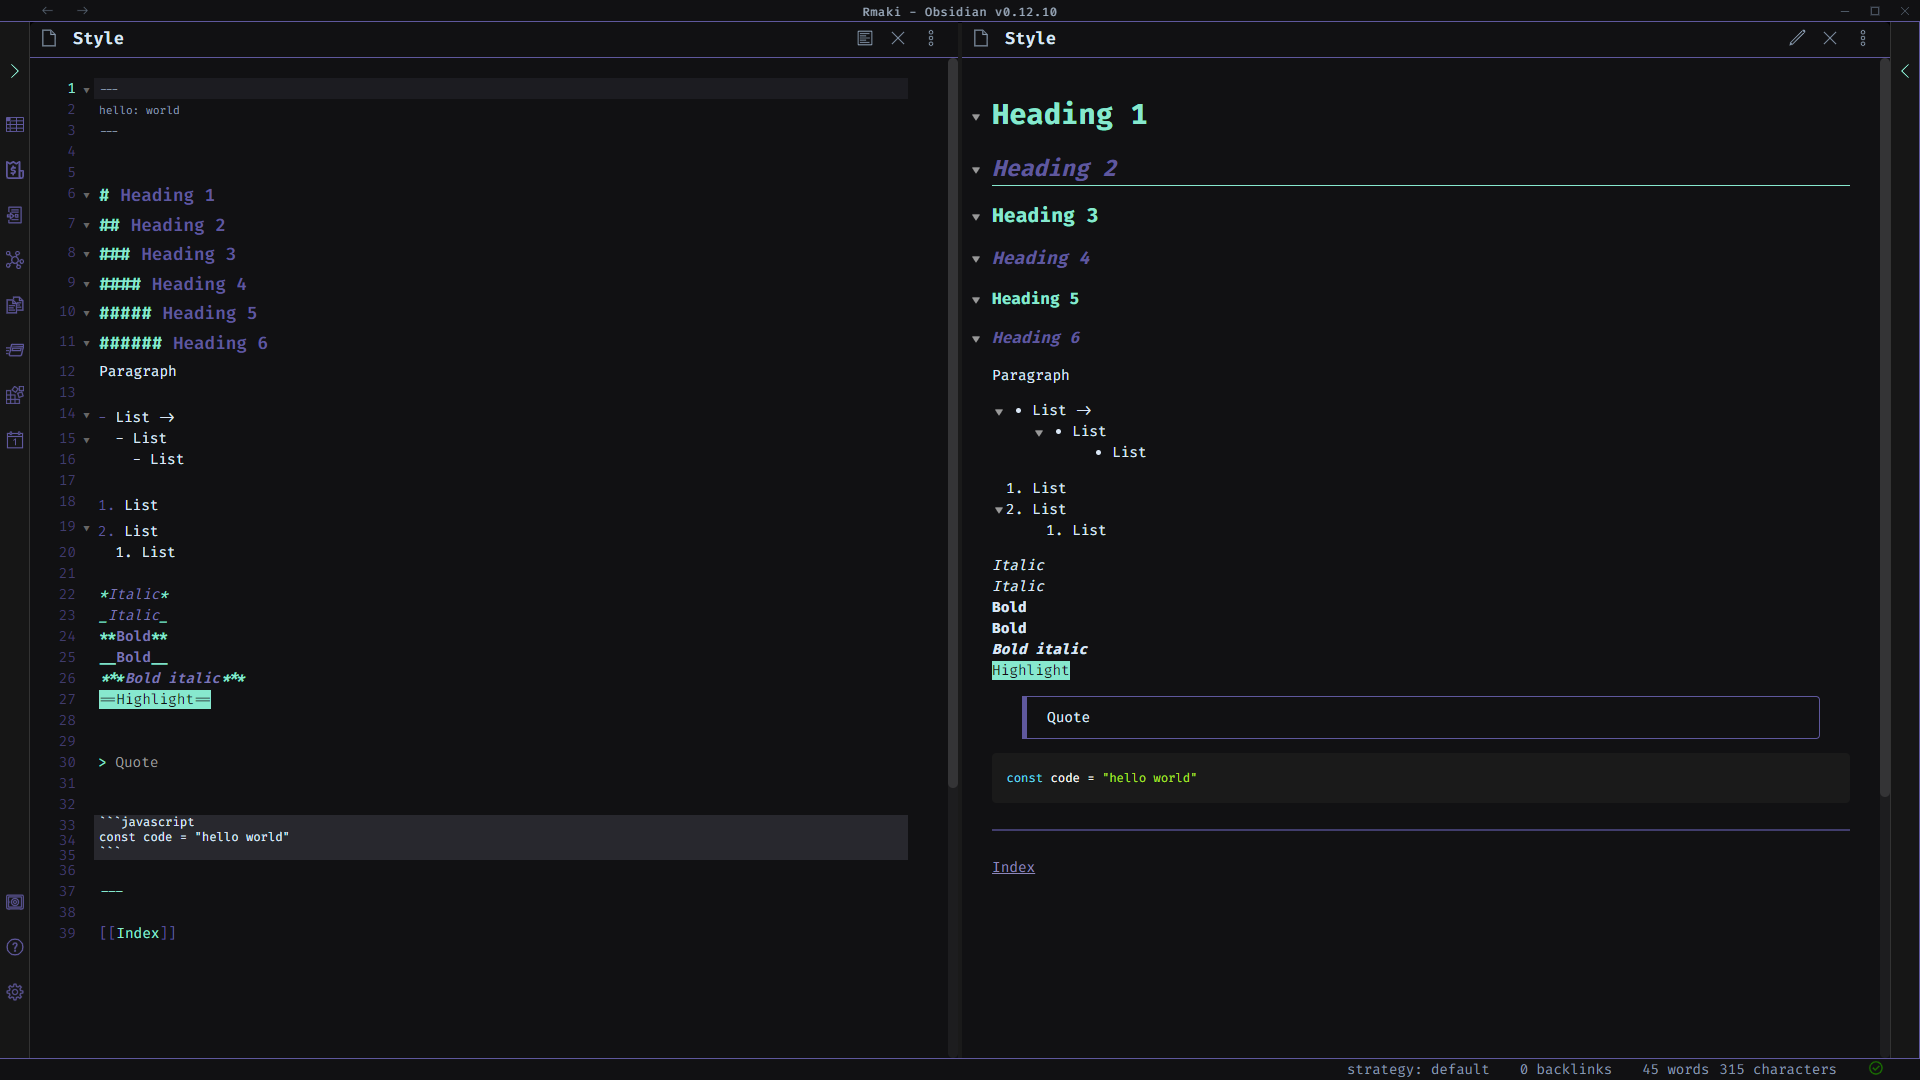
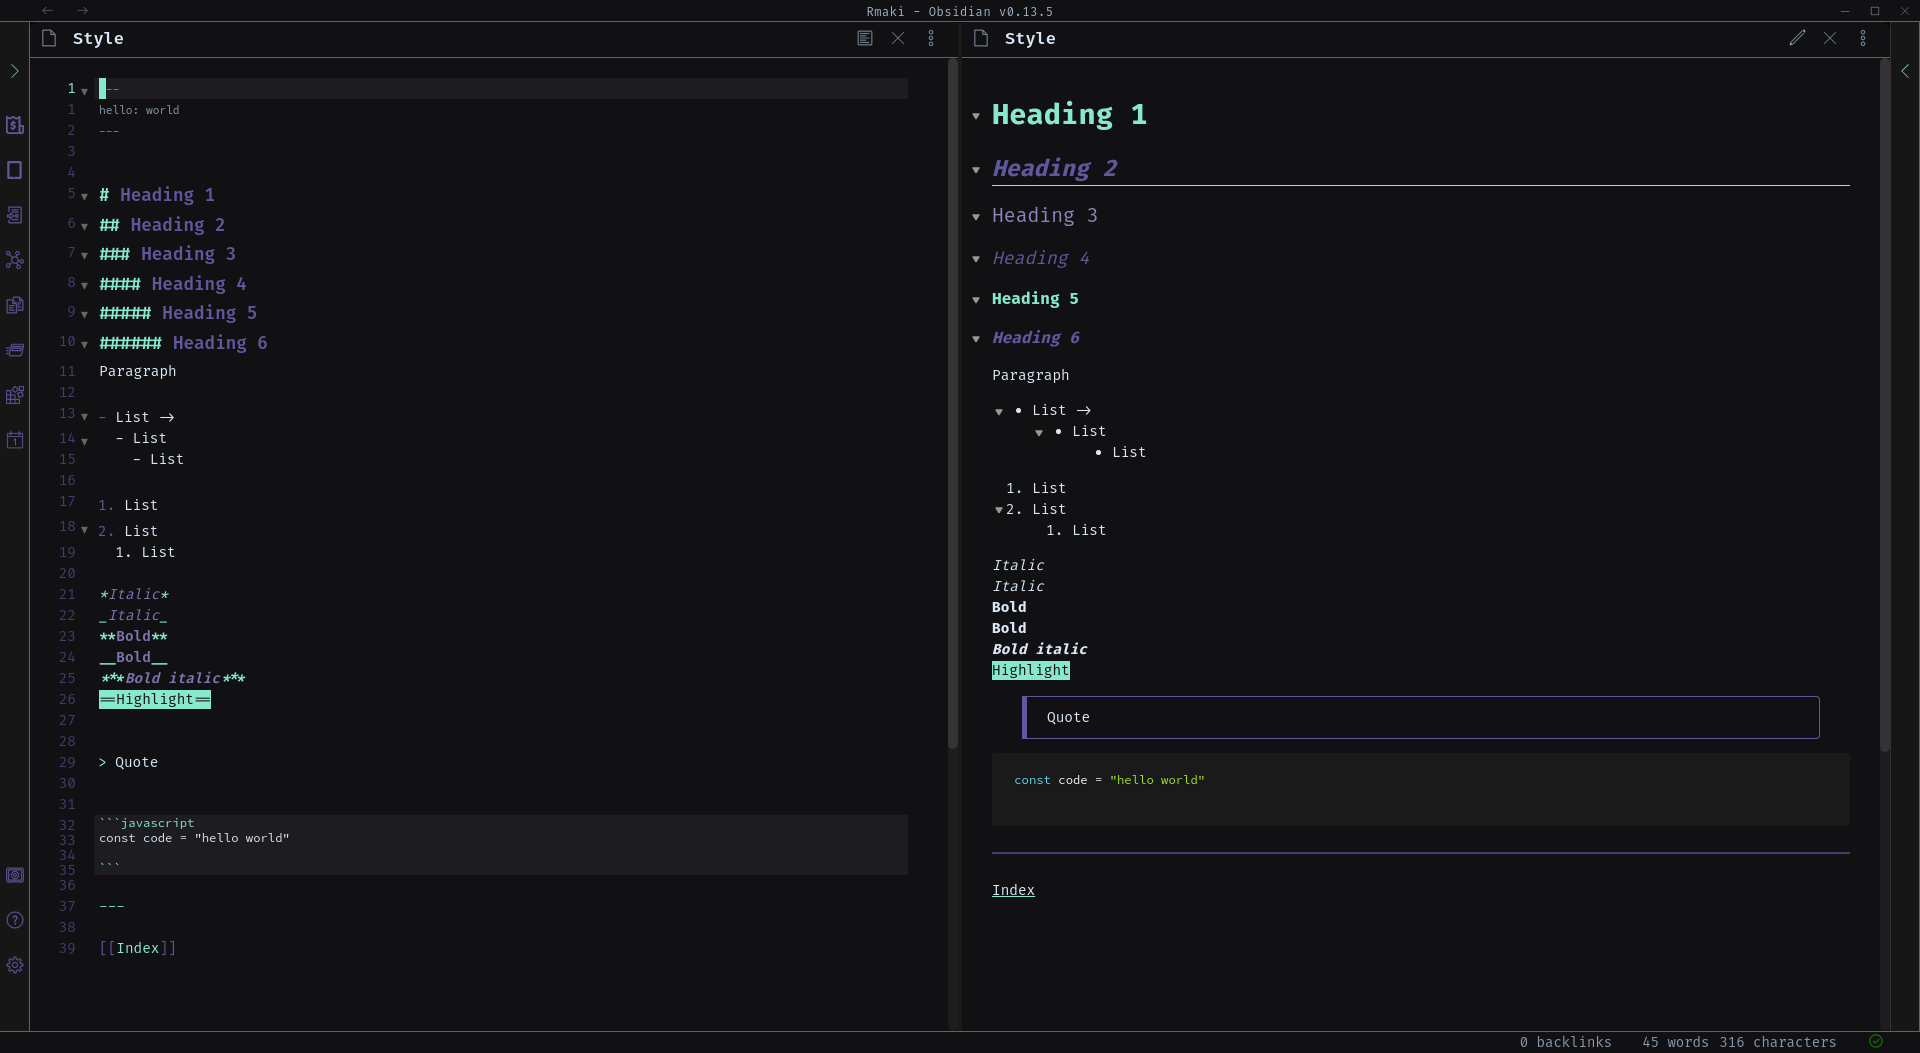
Update preview link color and add hover styles

diff --git a/Rmaki-Obsidian.css b/Rmaki-Obsidian.css
@@ -743,9 +743,20 @@ Built with PostCSS and Gulp
     color: var(--black-dark-1);
   }
 .markdown-preview-view a {
-    color: hsl(246, 28%, 63%);
-    color: var(--purple-light-3);
+    color: hsl(212, 61%, 91%);
+    color: var(--white);
+    text-decoration: underline;
+    -webkit-text-decoration-color: hsl(164, 68%, 72%) !important;
+            text-decoration-color: hsl(164, 68%, 72%) !important;
+    -webkit-text-decoration-color: var(--accent) !important;
+            text-decoration-color: var(--accent) !important
   }
+.markdown-preview-view a:hover {
+      background :hsl(164, 68%, 72%);
+      background :var(--accent);
+      color: hsl(240, 7%, 12%);
+      color: var(--black);
+    }
 .markdown-preview-view blockquote {
     border: solid 1px hsl(246, 28%, 48%);
     border: solid 1px var(--purple);

diff --git a/obsidian.css b/obsidian.css
@@ -743,9 +743,20 @@ Built with PostCSS and Gulp
     color: var(--black-dark-1);
   }
 .markdown-preview-view a {
-    color: hsl(246, 28%, 63%);
-    color: var(--purple-light-3);
+    color: hsl(212, 61%, 91%);
+    color: var(--white);
+    text-decoration: underline;
+    -webkit-text-decoration-color: hsl(164, 68%, 72%) !important;
+            text-decoration-color: hsl(164, 68%, 72%) !important;
+    -webkit-text-decoration-color: var(--accent) !important;
+            text-decoration-color: var(--accent) !important
   }
+.markdown-preview-view a:hover {
+      background :hsl(164, 68%, 72%);
+      background :var(--accent);
+      color: hsl(240, 7%, 12%);
+      color: var(--black);
+    }
 .markdown-preview-view blockquote {
     border: solid 1px hsl(246, 28%, 48%);
     border: solid 1px var(--purple);

diff --git a/styles/modules/preview.css b/styles/modules/preview.css
@@ -40,7 +40,14 @@
   }
 
   & a {
-    color: var(--purple-light-3);
+    color: var(--white);
+    text-decoration: underline;
+    text-decoration-color: var(--accent) !important;
+
+    &:hover {
+      background :var(--accent);
+      color: var(--black);
+    }
   }
 
  & blockquote {
